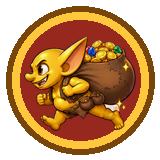
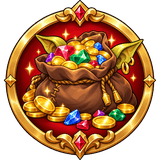
황금 고블린 배지 전용 그림
Claude-Session: https://claude.ai/code/session_011AypWsTwCXy5ahmKUPDYwt

diff --git a/sw.js b/sw.js
@@ -1,6 +1,6 @@
 /* 왕이 되는 그날까지 — 오프라인 실행용 서비스 워커 (tools/build_sw.py가 만듦, 직접 고치지 말 것) */
-const VERSION='8b28a2fd19';
-const MAP={"assets/bg/ash_far.png":"abfdc7ad7e","assets/bg/ash_ground.png":"fbd17f65c8","assets/bg/ash_mid.png":"bf807812ec","assets/bg/ash_sky.png":"300201d8a2","assets/bg/canyon_far.png":"a9cc422fed","assets/bg/canyon_ground.png":"d5f682c619","assets/bg/canyon_mid.png":"e5e4324591","assets/bg/canyon_sky.png":"9c202a64b5","assets/bg/dusk_far.png":"f566503025","assets/bg/dusk_ground.png":"d4760254fd","assets/bg/dusk_mid.png":"e0989d31a1","assets/bg/dusk_sky.png":"c82f7b61d3","assets/bg/erdan_far.png":"d094fc7ce5","assets/bg/erdan_ground.png":"d3529606e8","assets/bg/erdan_mid.png":"c8ad3804c1","assets/bg/erdan_sky.png":"1e05f8731e","assets/bg/frost_far.png":"19dad2ce88","assets/bg/frost_ground.png":"3b9d5fb014","assets/bg/frost_mid.png":"69a80fb601","assets/bg/frost_sky.png":"955f847347","assets/characters/bron_attack.png":"3a0e0caf42","assets/characters/bron_hit.png":"84a7154e77","assets/characters/bron_idle.png":"61229dcc5b","assets/characters/bron_walk.png":"7dad3ba0f2","assets/characters/haral_attack.png":"978f3afc3f","assets/characters/haral_hit.png":"213362f649","assets/characters/haral_idle.png":"8bf0bf6d20","assets/characters/haral_walk.png":"39e8f29d2f","assets/characters/kael_attack.png":"dbd47d1705","assets/characters/kael_hit.png":"b0fbed0ea5","assets/characters/kael_idle.png":"29cdfa8cdc","assets/characters/kael_walk.png":"884487f656","assets/characters/margo_attack.png":"5801b486be","assets/characters/margo_hit.png":"1340b2a211","assets/characters/margo_idle.png":"d44c7fa00a","assets/characters/margo_walk.png":"86be37ce75","assets/characters/riel_attack.png":"08dc86ec82","assets/characters/riel_hit.png":"22eb8eaca6","assets/characters/riel_idle.png":"3cf3652c06","assets/characters/riel_walk.png":"d429ca1f71","assets/crops/crop_carrot_1.png":"f521f1b21a","assets/crops/crop_carrot_2.png":"96412cae61","assets/crops/crop_carrot_3.png":"0caab08be8","assets/crops/crop_carrot_4.png":"631ee0ae4c","assets/crops/crop_pumpkin_1.png":"17da246fd2","assets/crops/crop_pumpkin_2.png":"4bd771eea2","assets/crops/crop_pumpkin_3.png":"b0e0de0917","assets/crops/crop_pumpkin_4.png":"4199c151ff","assets/crops/crop_wheat_1.png":"b2c4cba4cd","assets/crops/crop_wheat_2.png":"9f43ac98c5","assets/crops/crop_wheat_3.png":"1980c09851","assets/crops/crop_wheat_4.png":"96d9a3ad42","assets/crops/plot_empty.png":"bf40b6ed45","assets/fonts/hahmlet-500.woff2":"2e21f9e04c","assets/fonts/hahmlet-700.woff2":"cff1c42d55","assets/fonts/plexkr-400.woff2":"2185fb2e58","assets/fonts/plexkr-600.woff2":"760cba76f5","assets/fx/fx_bees.png":"a77e742ff9","assets/fx/fx_coin.png":"83d65bf09a","assets/fx/fx_crit.png":"08659b9d49","assets/fx/fx_harpoon.png":"84a4e2831d","assets/fx/fx_heal.png":"9ceeb9de2e","assets/fx/fx_hit.png":"b9b3abbcaf","assets/fx/fx_skill_bron.png":"ecbc795a27","assets/fx/fx_skill_haral.png":"5e1499b5c7","assets/fx/fx_skill_kael.png":"81aabe4d33","assets/fx/fx_skill_margo.png":"ac0d3edc16","assets/fx/fx_skill_riel.png":"47270c84f8","assets/fx/fx_soup.png":"4b941315f8","assets/gem/gem_pack_1.png":"fbaa0f6542","assets/gem/gem_pack_2.png":"89bccb5745","assets/gem/gem_pack_3.png":"5b0c3058fd","assets/gem/gem_pack_4.png":"4b01620dbd","assets/gem/gem_pack_5.png":"3d29e897fe","assets/gem/gem_pack_6.png":"5164494272","assets/gem/ui_gem.png":"d72701ba7d","assets/icon/apple-touch-icon.png":"e50c9e6bf1","assets/icon/favicon-16.png":"2db4311b5d","assets/icon/favicon-32.png":"440db49613","assets/icon/icon-192.png":"441e2997bd","assets/icon/icon-512.png":"eda2be997b","assets/illust/illust_prologue.jpg":"9beba365b5","assets/illust/illust_retire.jpg":"74ff311a7f","assets/illust/illust_title.jpg":"006adb3633","assets/map/ash_boss.png":"a8be9e52dc","assets/map/ash_enemy.png":"d2262367aa","assets/map/canyon_boss.png":"6b7c17a49c","assets/map/canyon_enemy.png":"e2d7d4ebcd","assets/map/capital_locked.png":"c828d1f67a","assets/map/capital_open.png":"cee360a677","assets/map/dusk_boss.png":"dbf6d0b566","assets/map/dusk_enemy.png":"543dbb2608","assets/map/erdan_boss.png":"63719713d5","assets/map/erdan_enemy.png":"b3c3a8a4e9","assets/map/frost_boss.png":"6ec913cade","assets/map/frost_enemy.png":"87e0ecc588","assets/monsters/bat_shadow_attack.png":"733f900992","assets/monsters/bat_shadow_hit.png":"6c6777143a","assets/monsters/bat_shadow_walk.png":"4bdf69f59e","assets/monsters/boss_aldor_attack.png":"98d147de33","assets/monsters/boss_aldor_hit.png":"8ef2631028","assets/monsters/boss_aldor_walk.png":"dc30c29780","assets/monsters/boss_gromak_attack.png":"79580dc79a","assets/monsters/boss_gromak_hit.png":"8afa36ddae","assets/monsters/boss_gromak_walk.png":"508e49c3f2","assets/monsters/boss_ignis_attack.png":"b3792ddac0","assets/monsters/boss_ignis_hit.png":"39874ec8ec","assets/monsters/boss_ignis_walk.png":"745f03cf3c","assets/monsters/boss_morbas_attack.png":"b90b8b6dbd","assets/monsters/boss_morbas_hit.png":"b2e28fd059","assets/monsters/boss_morbas_walk.png":"c14aa48d24","assets/monsters/boss_seril_attack.png":"87c378c111","assets/monsters/boss_seril_hit.png":"8ee606e7e9","assets/monsters/boss_seril_walk.png":"630659de62","assets/monsters/goblin_gold_attack.png":"64a6f6f451","assets/monsters/goblin_gold_hit.png":"8b27eac950","assets/monsters/goblin_gold_walk.png":"c8a6e5c138","assets/monsters/goblin_pick_attack.png":"fa8e5c883f","assets/monsters/goblin_pick_hit.png":"066af0e709","assets/monsters/goblin_pick_walk.png":"e1f6d5d36a","assets/monsters/golem_steel_attack.png":"07e873d945","assets/monsters/golem_steel_hit.png":"67115529dc","assets/monsters/golem_steel_walk.png":"af9989172a","assets/monsters/imp_flame_attack.png":"9855e4f5e3","assets/monsters/imp_flame_hit.png":"ac4e28b83a","assets/monsters/imp_flame_walk.png":"6a0a835904","assets/monsters/scarecrow_cursed_attack.png":"19c1676923","assets/monsters/scarecrow_cursed_hit.png":"07f43ba22a","assets/monsters/scarecrow_cursed_walk.png":"0b7170d79c","assets/monsters/skeleton_frost_attack.png":"07648d88b9","assets/monsters/skeleton_frost_hit.png":"fcc108c10e","assets/monsters/skeleton_frost_walk.png":"74294ba7e2","assets/monsters/slime_ash_attack.png":"031d213acf","assets/monsters/slime_ash_hit.png":"ce2fa4d31b","assets/monsters/slime_ash_walk.png":"03ae7c49a4","assets/monsters/slime_plague_attack.png":"d4f6075abb","assets/monsters/slime_plague_hit.png":"bb74341a7e","assets/monsters/slime_plague_walk.png":"151b47bf12","assets/monsters/wolf_shadow_attack.png":"a6a83b34b8","assets/monsters/wolf_shadow_hit.png":"82a1af6e1d","assets/monsters/wolf_shadow_walk.png":"1251356e09","assets/monsters/wraith_frost_attack.png":"f5f41001fb","assets/monsters/wraith_frost_hit.png":"6348e92571","assets/monsters/wraith_frost_walk.png":"131c82c5ac","assets/portraits/portrait_aldor_idle.png":"07633d6214","assets/portraits/portrait_bron_idle.png":"eb202419e5","assets/portraits/portrait_bron_laugh.png":"067dda71a1","assets/portraits/portrait_gromak_idle.png":"b4510b3437","assets/portraits/portrait_haral_idle.png":"8057bc4036","assets/portraits/portrait_haral_laugh.png":"c213936ee8","assets/portraits/portrait_ignis_idle.png":"6bb8479476","assets/portraits/portrait_kael_flustered.png":"dcbbe42cd0","assets/portraits/portrait_kael_idle.png":"2faad1bb9c","assets/portraits/portrait_kael_smile.png":"880d0b870c","assets/portraits/portrait_kael_surprised.png":"f49dfef839","assets/portraits/portrait_luminar_angry.png":"406fff108e","assets/portraits/portrait_luminar_moved.png":"ac97db5b14","assets/portraits/portrait_luminar_proud.png":"5a078f2d6f","assets/portraits/portrait_margo_idle.png":"a390d73c66","assets/portraits/portrait_margo_laugh.png":"6a6d2380f8","assets/portraits/portrait_marta_idle.png":"d86a9956f4","assets/portraits/portrait_morbas_idle.png":"1ed03a2888","assets/portraits/portrait_pete_idle.png":"d14833cc91","assets/portraits/portrait_riel_idle.png":"31ca54792c","assets/portraits/portrait_riel_laugh.png":"40f5ce426b","assets/portraits/portrait_seril_idle.png":"52fb8d0eb1","assets/portraits/portrait_toby_idle.png":"ea6aef3ceb","assets/profile/badge_basket.png":"19ad639d98","assets/profile/badge_chest.png":"1997070288","assets/profile/badge_goblin.png":"e3473ff866","assets/profile/badge_horns.png":"eb77cb7f93","assets/profile/badge_king.png":"87c7d121ac","assets/profile/badge_pumpkin.png":"e191405060","assets/profile/badge_rebuild.png":"100b0d8092","assets/profile/badge_retire.png":"68a96ee52e","assets/profile/badge_stew.png":"c5615ba22c","assets/profile/frame_amethyst.png":"33596ec882","assets/profile/frame_goblin.png":"82f21f151a","assets/profile/frame_gold.png":"ac627fc7a3","assets/profile/frame_harvest.png":"1b0b11ae0b","assets/profile/frame_holy.png":"1af08de6e7","assets/profile/frame_royal.png":"e21f45a33a","assets/profile/frame_silver.png":"1db41ebcfa","assets/profile/frame_straw.png":"0810bf19b1","assets/profile/frame_wood.png":"99f33b8a46","assets/relic/relic_armor_1.png":"16d76a13c5","assets/relic/relic_armor_2.png":"87fb210070","assets/relic/relic_armor_3.png":"dd11fe2783","assets/relic/relic_boots_1.png":"d9a8c049ac","assets/relic/relic_boots_2.png":"efd27637b0","assets/relic/relic_boots_3.png":"5a612f2e27","assets/relic/relic_gloves_1.png":"5e8bee64d0","assets/relic/relic_gloves_2.png":"6795c922c5","assets/relic/relic_gloves_3.png":"67e14c6405","assets/relic/relic_helm_1.png":"455c59b819","assets/relic/relic_helm_2.png":"d18874e0e3","assets/relic/relic_helm_3.png":"cf800e2dad","assets/relic/relic_ring_1.png":"10edfdff76","assets/relic/relic_ring_2.png":"78a2cc0f51","assets/relic/relic_ring_3.png":"b2278ff8ee","assets/relic/relic_weapon_1.png":"dcc7c7540a","assets/relic/relic_weapon_2.png":"5fdd6cc2b3","assets/relic/relic_weapon_3.png":"f0135343bd","assets/skills/skill_bron.png":"08c7b35e76","assets/skills/skill_haral.png":"d392acbc14","assets/skills/skill_kael.png":"85c628e6a9","assets/skills/skill_margo.png":"1498522d74","assets/skills/skill_riel.png":"7aca6249d7","assets/ui/banner_capture.png":"cdce0b7ac7","assets/ui/bld_apiary.png":"1c86733003","assets/ui/bld_diner.png":"386a2fd60f","assets/ui/bld_dock.png":"f0409530e4","assets/ui/bld_farm.png":"ba8a24d8a9","assets/ui/bld_inn.png":"6857ad2ff5","assets/ui/bld_mine.png":"db914dbca5","assets/ui/boss_aura_commander.png":"3f9d291d94","assets/ui/boss_aura_lord.png":"785308d542","assets/ui/boss_mark_commander.png":"77e1e1b4bb","assets/ui/boss_mark_lord.png":"123c1b4432","assets/ui/buff_atk.png":"9a886d1ff6","assets/ui/buff_gold.png":"1a7ca0cf7c","assets/ui/buff_spd.png":"dae9c3f56c","assets/ui/frame_dialog.png":"1d1d83a399","assets/ui/frame_epic.png":"69a0cfc775","assets/ui/frame_legendary.png":"9a8f6852ac","assets/ui/frame_mythic.png":"83201ca46e","assets/ui/frame_normal.png":"01b42af2db","assets/ui/frame_popup.png":"20dc37c6ff","assets/ui/frame_rare.png":"6e60a9625d","assets/ui/frame_uncommon.png":"c1f9ee4e31","assets/ui/item_carrot.png":"9d51a5ea72","assets/ui/item_fish.png":"2f62e8797b","assets/ui/item_honey.png":"fbdf3d5e01","assets/ui/item_ore.png":"6eb3cdcb49","assets/ui/item_pumpkin.png":"074c67fcb2","assets/ui/item_wheat.png":"69fac25d82","assets/ui/logo.png":"2d22e7ca80","assets/ui/node_boss.png":"c79760401f","assets/ui/node_captured.png":"0a83211c2b","assets/ui/node_current.png":"c4a3ba8982","assets/ui/node_enemy.png":"55c59af8ea","assets/ui/rank_count.png":"f0e9a8bd8c","assets/ui/rank_duke.png":"80cb0fc6fa","assets/ui/rank_farmer.png":"493f3b96e1","assets/ui/rank_guard.png":"8a70f1c39c","assets/ui/rank_king.png":"a34e27d982","assets/ui/rank_knight.png":"78adabb17a","assets/ui/rank_lord.png":"77bb49441a","assets/ui/relic_chest.png":"9311479aa1","assets/ui/seed_carrot.png":"f21317e672","assets/ui/seed_pumpkin.png":"de9e24a972","assets/ui/seed_wheat.png":"bc87c11aee","assets/ui/slot_armor.png":"83816d046b","assets/ui/slot_boots.png":"01c1c89cdb","assets/ui/slot_gloves.png":"483d5aba63","assets/ui/slot_hat.png":"45c39d6e0c","assets/ui/slot_ring.png":"3707240c55","assets/ui/slot_weapon.png":"d76a948b02","assets/ui/tab_equipment.png":"cebacb923b","assets/ui/tab_map.png":"5178bc1d54","assets/ui/tab_party.png":"80412a0e78","assets/ui/tab_training.png":"f090ee0719","assets/ui/tab_village.png":"87cabcf9cb","assets/ui/ui_boss_mark.png":"8fe434b274","assets/ui/ui_gold.png":"12070643fb","assets/village/apiary_built.png":"001bb8753d","assets/village/apiary_ruin.png":"42a1170bd6","assets/village/diner_built.png":"50f46b5946","assets/village/diner_ruin.png":"e09f4a687d","assets/village/dock_built.png":"10894845e0","assets/village/dock_ruin.png":"975d3eea4f","assets/village/farm_built.png":"2331d98d5b","assets/village/farm_ruin.png":"6f4bde33f4","assets/village/inn_built.png":"75f5599f0b","assets/village/inn_ruin.png":"31dfd01982","assets/village/mine_built.png":"85b66e411e","assets/village/mine_ruin.png":"b773da1822","assets/village/village_bg.jpg":"d7046fd11a","favicon.ico":"48e226949a","manifest.webmanifest":"cba9531993"};
+const VERSION='82f3b64e70';
+const MAP={"assets/bg/ash_far.png":"abfdc7ad7e","assets/bg/ash_ground.png":"fbd17f65c8","assets/bg/ash_mid.png":"bf807812ec","assets/bg/ash_sky.png":"300201d8a2","assets/bg/canyon_far.png":"a9cc422fed","assets/bg/canyon_ground.png":"d5f682c619","assets/bg/canyon_mid.png":"e5e4324591","assets/bg/canyon_sky.png":"9c202a64b5","assets/bg/dusk_far.png":"f566503025","assets/bg/dusk_ground.png":"d4760254fd","assets/bg/dusk_mid.png":"e0989d31a1","assets/bg/dusk_sky.png":"c82f7b61d3","assets/bg/erdan_far.png":"d094fc7ce5","assets/bg/erdan_ground.png":"d3529606e8","assets/bg/erdan_mid.png":"c8ad3804c1","assets/bg/erdan_sky.png":"1e05f8731e","assets/bg/frost_far.png":"19dad2ce88","assets/bg/frost_ground.png":"3b9d5fb014","assets/bg/frost_mid.png":"69a80fb601","assets/bg/frost_sky.png":"955f847347","assets/characters/bron_attack.png":"3a0e0caf42","assets/characters/bron_hit.png":"84a7154e77","assets/characters/bron_idle.png":"61229dcc5b","assets/characters/bron_walk.png":"7dad3ba0f2","assets/characters/haral_attack.png":"978f3afc3f","assets/characters/haral_hit.png":"213362f649","assets/characters/haral_idle.png":"8bf0bf6d20","assets/characters/haral_walk.png":"39e8f29d2f","assets/characters/kael_attack.png":"dbd47d1705","assets/characters/kael_hit.png":"b0fbed0ea5","assets/characters/kael_idle.png":"29cdfa8cdc","assets/characters/kael_walk.png":"884487f656","assets/characters/margo_attack.png":"5801b486be","assets/characters/margo_hit.png":"1340b2a211","assets/characters/margo_idle.png":"d44c7fa00a","assets/characters/margo_walk.png":"86be37ce75","assets/characters/riel_attack.png":"08dc86ec82","assets/characters/riel_hit.png":"22eb8eaca6","assets/characters/riel_idle.png":"3cf3652c06","assets/characters/riel_walk.png":"d429ca1f71","assets/crops/crop_carrot_1.png":"f521f1b21a","assets/crops/crop_carrot_2.png":"96412cae61","assets/crops/crop_carrot_3.png":"0caab08be8","assets/crops/crop_carrot_4.png":"631ee0ae4c","assets/crops/crop_pumpkin_1.png":"17da246fd2","assets/crops/crop_pumpkin_2.png":"4bd771eea2","assets/crops/crop_pumpkin_3.png":"b0e0de0917","assets/crops/crop_pumpkin_4.png":"4199c151ff","assets/crops/crop_wheat_1.png":"b2c4cba4cd","assets/crops/crop_wheat_2.png":"9f43ac98c5","assets/crops/crop_wheat_3.png":"1980c09851","assets/crops/crop_wheat_4.png":"96d9a3ad42","assets/crops/plot_empty.png":"bf40b6ed45","assets/fonts/hahmlet-500.woff2":"2e21f9e04c","assets/fonts/hahmlet-700.woff2":"cff1c42d55","assets/fonts/plexkr-400.woff2":"2185fb2e58","assets/fonts/plexkr-600.woff2":"760cba76f5","assets/fx/fx_bees.png":"a77e742ff9","assets/fx/fx_coin.png":"83d65bf09a","assets/fx/fx_crit.png":"08659b9d49","assets/fx/fx_harpoon.png":"84a4e2831d","assets/fx/fx_heal.png":"9ceeb9de2e","assets/fx/fx_hit.png":"b9b3abbcaf","assets/fx/fx_skill_bron.png":"ecbc795a27","assets/fx/fx_skill_haral.png":"5e1499b5c7","assets/fx/fx_skill_kael.png":"81aabe4d33","assets/fx/fx_skill_margo.png":"ac0d3edc16","assets/fx/fx_skill_riel.png":"47270c84f8","assets/fx/fx_soup.png":"4b941315f8","assets/gem/gem_pack_1.png":"fbaa0f6542","assets/gem/gem_pack_2.png":"89bccb5745","assets/gem/gem_pack_3.png":"5b0c3058fd","assets/gem/gem_pack_4.png":"4b01620dbd","assets/gem/gem_pack_5.png":"3d29e897fe","assets/gem/gem_pack_6.png":"5164494272","assets/gem/ui_gem.png":"d72701ba7d","assets/icon/apple-touch-icon.png":"e50c9e6bf1","assets/icon/favicon-16.png":"2db4311b5d","assets/icon/favicon-32.png":"440db49613","assets/icon/icon-192.png":"441e2997bd","assets/icon/icon-512.png":"eda2be997b","assets/illust/illust_prologue.jpg":"9beba365b5","assets/illust/illust_retire.jpg":"74ff311a7f","assets/illust/illust_title.jpg":"006adb3633","assets/map/ash_boss.png":"a8be9e52dc","assets/map/ash_enemy.png":"d2262367aa","assets/map/canyon_boss.png":"6b7c17a49c","assets/map/canyon_enemy.png":"e2d7d4ebcd","assets/map/capital_locked.png":"c828d1f67a","assets/map/capital_open.png":"cee360a677","assets/map/dusk_boss.png":"dbf6d0b566","assets/map/dusk_enemy.png":"543dbb2608","assets/map/erdan_boss.png":"63719713d5","assets/map/erdan_enemy.png":"b3c3a8a4e9","assets/map/frost_boss.png":"6ec913cade","assets/map/frost_enemy.png":"87e0ecc588","assets/monsters/bat_shadow_attack.png":"733f900992","assets/monsters/bat_shadow_hit.png":"6c6777143a","assets/monsters/bat_shadow_walk.png":"4bdf69f59e","assets/monsters/boss_aldor_attack.png":"98d147de33","assets/monsters/boss_aldor_hit.png":"8ef2631028","assets/monsters/boss_aldor_walk.png":"dc30c29780","assets/monsters/boss_gromak_attack.png":"79580dc79a","assets/monsters/boss_gromak_hit.png":"8afa36ddae","assets/monsters/boss_gromak_walk.png":"508e49c3f2","assets/monsters/boss_ignis_attack.png":"b3792ddac0","assets/monsters/boss_ignis_hit.png":"39874ec8ec","assets/monsters/boss_ignis_walk.png":"745f03cf3c","assets/monsters/boss_morbas_attack.png":"b90b8b6dbd","assets/monsters/boss_morbas_hit.png":"b2e28fd059","assets/monsters/boss_morbas_walk.png":"c14aa48d24","assets/monsters/boss_seril_attack.png":"87c378c111","assets/monsters/boss_seril_hit.png":"8ee606e7e9","assets/monsters/boss_seril_walk.png":"630659de62","assets/monsters/goblin_gold_attack.png":"64a6f6f451","assets/monsters/goblin_gold_hit.png":"8b27eac950","assets/monsters/goblin_gold_walk.png":"c8a6e5c138","assets/monsters/goblin_pick_attack.png":"fa8e5c883f","assets/monsters/goblin_pick_hit.png":"066af0e709","assets/monsters/goblin_pick_walk.png":"e1f6d5d36a","assets/monsters/golem_steel_attack.png":"07e873d945","assets/monsters/golem_steel_hit.png":"67115529dc","assets/monsters/golem_steel_walk.png":"af9989172a","assets/monsters/imp_flame_attack.png":"9855e4f5e3","assets/monsters/imp_flame_hit.png":"ac4e28b83a","assets/monsters/imp_flame_walk.png":"6a0a835904","assets/monsters/scarecrow_cursed_attack.png":"19c1676923","assets/monsters/scarecrow_cursed_hit.png":"07f43ba22a","assets/monsters/scarecrow_cursed_walk.png":"0b7170d79c","assets/monsters/skeleton_frost_attack.png":"07648d88b9","assets/monsters/skeleton_frost_hit.png":"fcc108c10e","assets/monsters/skeleton_frost_walk.png":"74294ba7e2","assets/monsters/slime_ash_attack.png":"031d213acf","assets/monsters/slime_ash_hit.png":"ce2fa4d31b","assets/monsters/slime_ash_walk.png":"03ae7c49a4","assets/monsters/slime_plague_attack.png":"d4f6075abb","assets/monsters/slime_plague_hit.png":"bb74341a7e","assets/monsters/slime_plague_walk.png":"151b47bf12","assets/monsters/wolf_shadow_attack.png":"a6a83b34b8","assets/monsters/wolf_shadow_hit.png":"82a1af6e1d","assets/monsters/wolf_shadow_walk.png":"1251356e09","assets/monsters/wraith_frost_attack.png":"f5f41001fb","assets/monsters/wraith_frost_hit.png":"6348e92571","assets/monsters/wraith_frost_walk.png":"131c82c5ac","assets/portraits/portrait_aldor_idle.png":"07633d6214","assets/portraits/portrait_bron_idle.png":"eb202419e5","assets/portraits/portrait_bron_laugh.png":"067dda71a1","assets/portraits/portrait_gromak_idle.png":"b4510b3437","assets/portraits/portrait_haral_idle.png":"8057bc4036","assets/portraits/portrait_haral_laugh.png":"c213936ee8","assets/portraits/portrait_ignis_idle.png":"6bb8479476","assets/portraits/portrait_kael_flustered.png":"dcbbe42cd0","assets/portraits/portrait_kael_idle.png":"2faad1bb9c","assets/portraits/portrait_kael_smile.png":"880d0b870c","assets/portraits/portrait_kael_surprised.png":"f49dfef839","assets/portraits/portrait_luminar_angry.png":"406fff108e","assets/portraits/portrait_luminar_moved.png":"ac97db5b14","assets/portraits/portrait_luminar_proud.png":"5a078f2d6f","assets/portraits/portrait_margo_idle.png":"a390d73c66","assets/portraits/portrait_margo_laugh.png":"6a6d2380f8","assets/portraits/portrait_marta_idle.png":"d86a9956f4","assets/portraits/portrait_morbas_idle.png":"1ed03a2888","assets/portraits/portrait_pete_idle.png":"d14833cc91","assets/portraits/portrait_riel_idle.png":"31ca54792c","assets/portraits/portrait_riel_laugh.png":"40f5ce426b","assets/portraits/portrait_seril_idle.png":"52fb8d0eb1","assets/portraits/portrait_toby_idle.png":"ea6aef3ceb","assets/profile/badge_basket.png":"19ad639d98","assets/profile/badge_chest.png":"1997070288","assets/profile/badge_goblin.png":"a97a7db198","assets/profile/badge_horns.png":"eb77cb7f93","assets/profile/badge_king.png":"87c7d121ac","assets/profile/badge_pumpkin.png":"e191405060","assets/profile/badge_rebuild.png":"100b0d8092","assets/profile/badge_retire.png":"68a96ee52e","assets/profile/badge_stew.png":"c5615ba22c","assets/profile/frame_amethyst.png":"33596ec882","assets/profile/frame_goblin.png":"82f21f151a","assets/profile/frame_gold.png":"ac627fc7a3","assets/profile/frame_harvest.png":"1b0b11ae0b","assets/profile/frame_holy.png":"1af08de6e7","assets/profile/frame_royal.png":"e21f45a33a","assets/profile/frame_silver.png":"1db41ebcfa","assets/profile/frame_straw.png":"0810bf19b1","assets/profile/frame_wood.png":"99f33b8a46","assets/relic/relic_armor_1.png":"16d76a13c5","assets/relic/relic_armor_2.png":"87fb210070","assets/relic/relic_armor_3.png":"dd11fe2783","assets/relic/relic_boots_1.png":"d9a8c049ac","assets/relic/relic_boots_2.png":"efd27637b0","assets/relic/relic_boots_3.png":"5a612f2e27","assets/relic/relic_gloves_1.png":"5e8bee64d0","assets/relic/relic_gloves_2.png":"6795c922c5","assets/relic/relic_gloves_3.png":"67e14c6405","assets/relic/relic_helm_1.png":"455c59b819","assets/relic/relic_helm_2.png":"d18874e0e3","assets/relic/relic_helm_3.png":"cf800e2dad","assets/relic/relic_ring_1.png":"10edfdff76","assets/relic/relic_ring_2.png":"78a2cc0f51","assets/relic/relic_ring_3.png":"b2278ff8ee","assets/relic/relic_weapon_1.png":"dcc7c7540a","assets/relic/relic_weapon_2.png":"5fdd6cc2b3","assets/relic/relic_weapon_3.png":"f0135343bd","assets/skills/skill_bron.png":"08c7b35e76","assets/skills/skill_haral.png":"d392acbc14","assets/skills/skill_kael.png":"85c628e6a9","assets/skills/skill_margo.png":"1498522d74","assets/skills/skill_riel.png":"7aca6249d7","assets/ui/banner_capture.png":"cdce0b7ac7","assets/ui/bld_apiary.png":"1c86733003","assets/ui/bld_diner.png":"386a2fd60f","assets/ui/bld_dock.png":"f0409530e4","assets/ui/bld_farm.png":"ba8a24d8a9","assets/ui/bld_inn.png":"6857ad2ff5","assets/ui/bld_mine.png":"db914dbca5","assets/ui/boss_aura_commander.png":"3f9d291d94","assets/ui/boss_aura_lord.png":"785308d542","assets/ui/boss_mark_commander.png":"77e1e1b4bb","assets/ui/boss_mark_lord.png":"123c1b4432","assets/ui/buff_atk.png":"9a886d1ff6","assets/ui/buff_gold.png":"1a7ca0cf7c","assets/ui/buff_spd.png":"dae9c3f56c","assets/ui/frame_dialog.png":"1d1d83a399","assets/ui/frame_epic.png":"69a0cfc775","assets/ui/frame_legendary.png":"9a8f6852ac","assets/ui/frame_mythic.png":"83201ca46e","assets/ui/frame_normal.png":"01b42af2db","assets/ui/frame_popup.png":"20dc37c6ff","assets/ui/frame_rare.png":"6e60a9625d","assets/ui/frame_uncommon.png":"c1f9ee4e31","assets/ui/item_carrot.png":"9d51a5ea72","assets/ui/item_fish.png":"2f62e8797b","assets/ui/item_honey.png":"fbdf3d5e01","assets/ui/item_ore.png":"6eb3cdcb49","assets/ui/item_pumpkin.png":"074c67fcb2","assets/ui/item_wheat.png":"69fac25d82","assets/ui/logo.png":"2d22e7ca80","assets/ui/node_boss.png":"c79760401f","assets/ui/node_captured.png":"0a83211c2b","assets/ui/node_current.png":"c4a3ba8982","assets/ui/node_enemy.png":"55c59af8ea","assets/ui/rank_count.png":"f0e9a8bd8c","assets/ui/rank_duke.png":"80cb0fc6fa","assets/ui/rank_farmer.png":"493f3b96e1","assets/ui/rank_guard.png":"8a70f1c39c","assets/ui/rank_king.png":"a34e27d982","assets/ui/rank_knight.png":"78adabb17a","assets/ui/rank_lord.png":"77bb49441a","assets/ui/relic_chest.png":"9311479aa1","assets/ui/seed_carrot.png":"f21317e672","assets/ui/seed_pumpkin.png":"de9e24a972","assets/ui/seed_wheat.png":"bc87c11aee","assets/ui/slot_armor.png":"83816d046b","assets/ui/slot_boots.png":"01c1c89cdb","assets/ui/slot_gloves.png":"483d5aba63","assets/ui/slot_hat.png":"45c39d6e0c","assets/ui/slot_ring.png":"3707240c55","assets/ui/slot_weapon.png":"d76a948b02","assets/ui/tab_equipment.png":"cebacb923b","assets/ui/tab_map.png":"5178bc1d54","assets/ui/tab_party.png":"80412a0e78","assets/ui/tab_training.png":"f090ee0719","assets/ui/tab_village.png":"87cabcf9cb","assets/ui/ui_boss_mark.png":"8fe434b274","assets/ui/ui_gold.png":"12070643fb","assets/village/apiary_built.png":"001bb8753d","assets/village/apiary_ruin.png":"42a1170bd6","assets/village/diner_built.png":"50f46b5946","assets/village/diner_ruin.png":"e09f4a687d","assets/village/dock_built.png":"10894845e0","assets/village/dock_ruin.png":"975d3eea4f","assets/village/farm_built.png":"2331d98d5b","assets/village/farm_ruin.png":"6f4bde33f4","assets/village/inn_built.png":"75f5599f0b","assets/village/inn_ruin.png":"31dfd01982","assets/village/mine_built.png":"85b66e411e","assets/village/mine_ruin.png":"b773da1822","assets/village/village_bg.jpg":"d7046fd11a","favicon.ico":"48e226949a","manifest.webmanifest":"cba9531993"};
 const PAGE='kd-page',FILES='kd-files';
 const base=self.registration.scope;
 const key=(p,h)=>new URL(p,base).href+'?v='+h;
